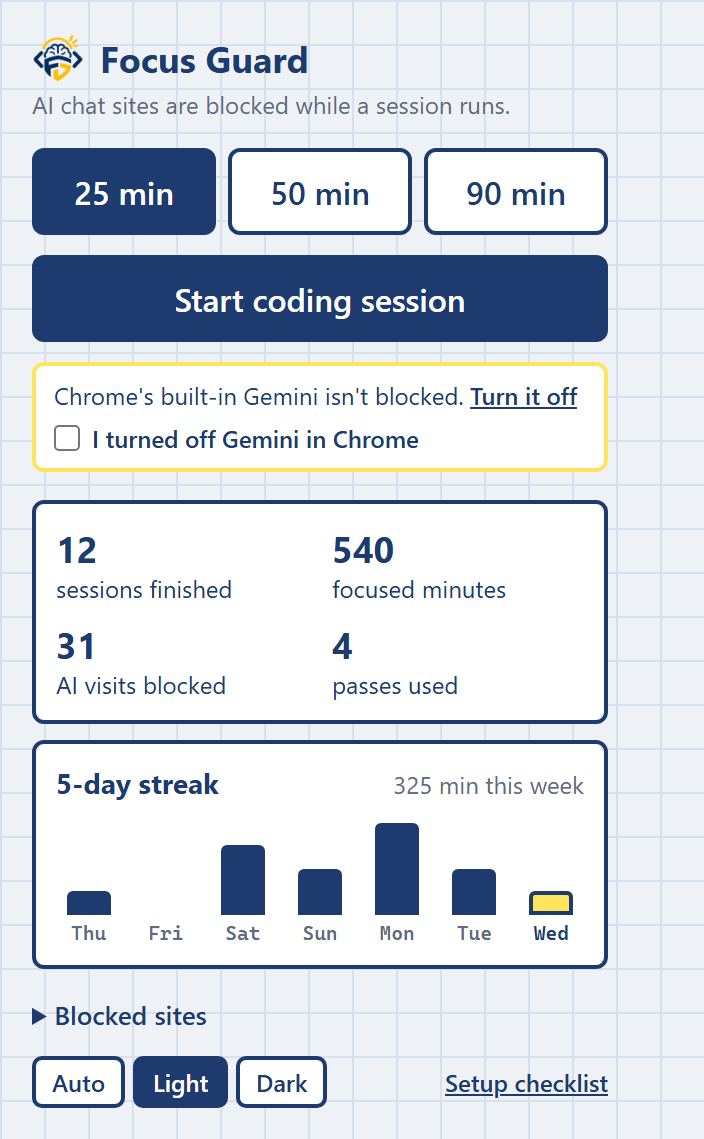
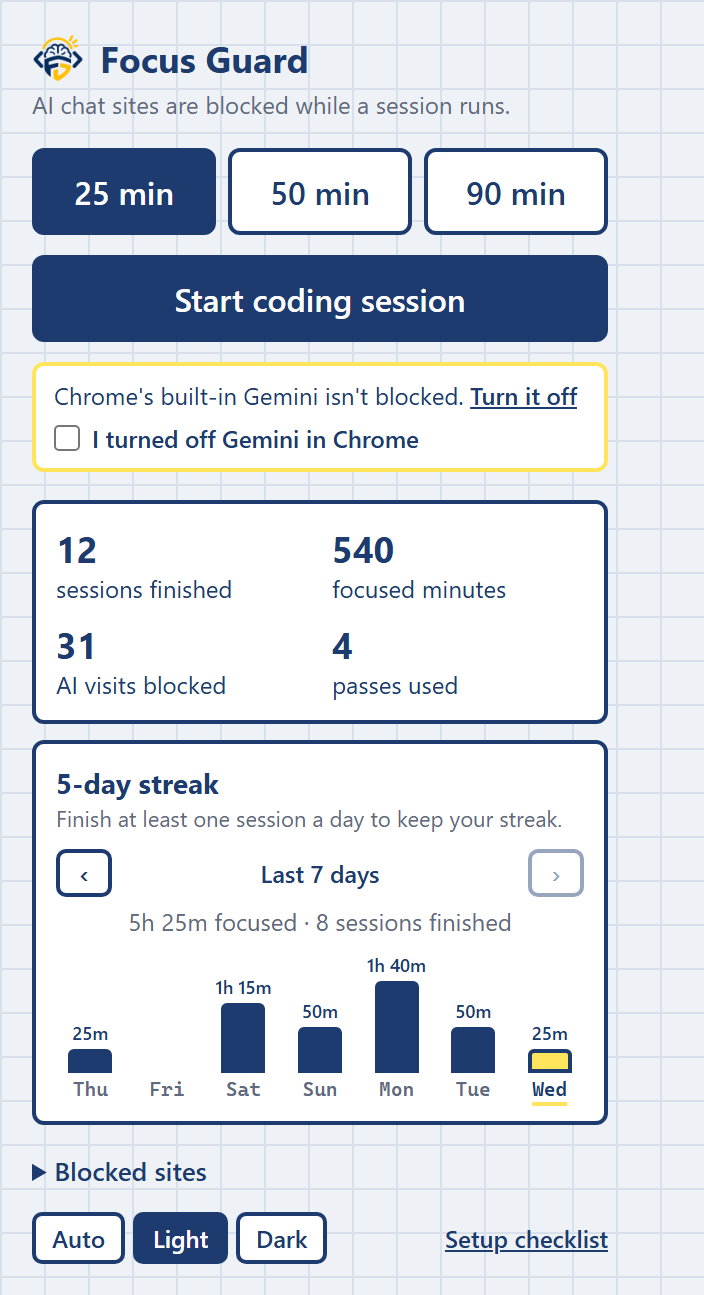
Show each day's time, the week's totals and earlier weeks in the chart
The popup's weekly chart now shows each day's focused time above its bar
("45m", "1h 20m", nothing on empty days), underlines today's day name,
and has a summary line with the week's total time and finished sessions.
Arrows step back through earlier weeks from the saved 60 days: "next" is
disabled on the current week and "previous" when nothing older has any
focus, and the week shown stays put when the popup refreshes. A line
under the streak explains the rule: finish at least one session a day.
It's visible text rather than a hover tooltip, so it also works with a
keyboard, touch and screen readers.

src/shared/streaks.js gains weekOf, hasEarlierWeek, durationText and
weekRangeText; the chart's aria-label names the week shown. The new text
is covered by the extension contrast tests, and the 1.1.0 notes, the
releases page, README and site alt text and the popup screenshot match.

Changed region(s): [[0.0312, 0.0307, 0.875, 0.9833], [0.625, 0.9219, 0.875, 0.9833]]

diff --git a/tests/popup.test.js b/tests/popup.test.js
@@ -39,32 +39,87 @@ test("the app builders choice shows as saved, and is locked during a session lik
 
 const NOW = new Date(2026, 10, 25, 15).getTime(); // Wednesday 25 November 2026, 3 pm local time
 
-test("the popup shows the streak, this week's minutes and one bar per day", async () => {
-  const days = {
-    "2026-11-19": { sessions: 1, minutes: 25 },
-    "2026-11-23": { sessions: 1, minutes: 50 },
-    "2026-11-24": { sessions: 2, minutes: 100 },
-    "2026-11-25": { sessions: 1, minutes: 25 }
-  };
-  const popup = loadPopup({ store: { stats: { sessions: 5, minutes: 200, blocked: 0, unlocks: 0, log: [], days } }, now: NOW });
+const bars = (popup) => popup.els.weekBars.children.map((col) => ({
+  value: col.children[0].textContent, height: col.children[1].style.height, day: col.children[2].textContent, today: col.className === "bar today"
+}));
+const HISTORY = {
+  "2026-11-05": { sessions: 1, minutes: 25 },
+  "2026-11-12": { sessions: 2, minutes: 95 },
+  "2026-11-19": { sessions: 1, minutes: 25 },
+  "2026-11-23": { sessions: 1, minutes: 50 },
+  "2026-11-24": { sessions: 2, minutes: 100 },
+  "2026-11-25": { sessions: 1, minutes: 25 }
+};
+const withHistory = (days = HISTORY) => loadPopup({ store: { stats: { sessions: 8, minutes: 320, blocked: 0, unlocks: 0, log: [], days } }, now: NOW });
+
+test("the popup shows the streak, its rule, and the last 7 days with minutes on each bar", async () => {
+  const popup = withHistory();
   await popup.settle();
   assert.equal(popup.els.streak.textContent, "3-day streak");
-  assert.equal(popup.els.weekTotal.textContent, "200 min this week");
-  const bars = popup.els.weekBars.children;
-  assert.deepEqual(bars.map((b) => b.children[1].textContent), ["Thu", "Fri", "Sat", "Sun", "Mon", "Tue", "Wed"]);
-  assert.deepEqual(bars.map((b) => b.children[0].style.height), ["12px", "0px", "0px", "0px", "23px", "46px", "12px"]);
-  assert.deepEqual(bars.map((b) => b.className), ["bar", "bar", "bar", "bar", "bar", "bar", "bar today"]);
+  assert.match(html, /<p class="streak-rule muted">Finish at least one session a day to keep your streak\.<\/p>/);
+  assert.equal(popup.els.weekRange.textContent, "Last 7 days");
+  assert.equal(popup.els.weekTotal.textContent, "3h 20m focused · 5 sessions finished");
+  assert.deepEqual(bars(popup), [
+    { value: "25m", height: "12px", day: "Thu", today: false },
+    { value: "", height: "0px", day: "Fri", today: false },
+    { value: "", height: "0px", day: "Sat", today: false },
+    { value: "", height: "0px", day: "Sun", today: false },
+    { value: "50m", height: "23px", day: "Mon", today: false },
+    { value: "1h 40m", height: "46px", day: "Tue", today: false },
+    { value: "25m", height: "12px", day: "Wed", today: true }
+  ]);
   assert.equal(popup.els.weekBars.attributes["aria-label"],
     "Focused minutes, last 7 days: Thu 25, Fri 0, Sat 0, Sun 0, Mon 50, Tue 100, Wed (today) 25");
+});
+
+test("the arrows browse earlier weeks, and stop at the current week and the oldest history", async () => {
+  const popup = withHistory();
+  await popup.settle();
+  assert.equal(popup.els.nextWeek.disabled, true, "no next week from the current one");
+  assert.equal(popup.els.prevWeek.disabled, false);
+  popup.els.prevWeek.onclick();
+  assert.equal(popup.els.weekRange.textContent, "12–18 Nov");
+  assert.equal(popup.els.weekTotal.textContent, "1h 35m focused · 2 sessions finished");
+  assert.deepEqual(bars(popup).map((b) => b.value), ["1h 35m", "", "", "", "", "", ""]);
+  assert.ok(bars(popup).every((b) => !b.today), "no today in an earlier week");
+  assert.equal(popup.els.weekBars.attributes["aria-label"], "Focused minutes, 12–18 Nov: Thu 95, Fri 0, Sat 0, Sun 0, Mon 0, Tue 0, Wed 0");
+  assert.equal(popup.els.nextWeek.disabled, false);
+  popup.els.prevWeek.onclick();
+  assert.equal(popup.els.weekRange.textContent, "5–11 Nov");
+  assert.equal(popup.els.prevWeek.disabled, true, "nothing older is saved");
+  popup.els.nextWeek.onclick();
+  popup.els.nextWeek.onclick();
+  assert.equal(popup.els.weekRange.textContent, "Last 7 days");
+  assert.equal(popup.els.nextWeek.disabled, true);
+});
+
+test("the week shown stays put when the popup refreshes", async () => {
+  const popup = withHistory();
+  await popup.settle();
+  popup.els.prevWeek.onclick();
+  assert.equal(popup.els.weekRange.textContent, "12–18 Nov");
+  await popup.save({ stats: { sessions: 9, minutes: 345, blocked: 0, unlocks: 0, log: [], days: HISTORY } }); // e.g. a session finished
+  await popup.settle();
+  assert.equal(popup.els.sSessions.textContent, 9, "the popup did refresh");
+  assert.equal(popup.els.weekRange.textContent, "12–18 Nov", "still the week you were looking at");
 });
 
 test("with no history yet, the popup invites you to start a streak", async () => {
   const popup = loadPopup({ store: { stats: { sessions: 4, minutes: 130, blocked: 7, unlocks: 2, log: [] } }, now: NOW }); // saved by 1.0.0
   await popup.settle();
   assert.equal(popup.els.streak.textContent, "Finish a session to start a streak");
-  assert.equal(popup.els.weekTotal.textContent, "0 min this week");
+  assert.equal(popup.els.weekTotal.textContent, "0m focused · 0 sessions finished");
+  assert.equal(popup.els.prevWeek.disabled, true);
+  assert.equal(popup.els.nextWeek.disabled, true);
   assert.equal(popup.els.weekBars.children.length, 7);
+  assert.ok(bars(popup).every((b) => b.value === ""), "nothing on empty days");
   assert.equal(popup.els.sMinutes.textContent, 130, "the totals are still shown");
+});
+
+test("one finished session is singular", async () => {
+  const popup = withHistory({ "2026-11-25": { sessions: 1, minutes: 25 } });
+  await popup.settle();
+  assert.equal(popup.els.weekTotal.textContent, "25m focused · 1 session finished");
 });
 
 test("a short bar is still visible, and the chart's markup is in popup.html", () => {

diff --git a/tests/streaks.test.js b/tests/streaks.test.js
@@ -96,12 +96,45 @@ test("a streak can cross a month and a year", () => {
 test("the week is the last 7 days, oldest first, ending today", () => {
   const days = { "2026-11-19": { sessions: 1, minutes: 25 }, "2026-11-20": { sessions: 0, minutes: 10 }, "2026-11-25": { sessions: 2, minutes: 115 } };
   assert.deepEqual(lastWeek(days, at("2026-11-25")), [
-    { key: "2026-11-19", day: "Thu", minutes: 25, today: false },
-    { key: "2026-11-20", day: "Fri", minutes: 10, today: false },
-    { key: "2026-11-21", day: "Sat", minutes: 0, today: false },
-    { key: "2026-11-22", day: "Sun", minutes: 0, today: false },
-    { key: "2026-11-23", day: "Mon", minutes: 0, today: false },
-    { key: "2026-11-24", day: "Tue", minutes: 0, today: false },
-    { key: "2026-11-25", day: "Wed", minutes: 115, today: true }
+    { key: "2026-11-19", day: "Thu", minutes: 25, sessions: 1, today: false },
+    { key: "2026-11-20", day: "Fri", minutes: 10, sessions: 0, today: false },
+    { key: "2026-11-21", day: "Sat", minutes: 0, sessions: 0, today: false },
+    { key: "2026-11-22", day: "Sun", minutes: 0, sessions: 0, today: false },
+    { key: "2026-11-23", day: "Mon", minutes: 0, sessions: 0, today: false },
+    { key: "2026-11-24", day: "Tue", minutes: 0, sessions: 0, today: false },
+    { key: "2026-11-25", day: "Wed", minutes: 115, sessions: 2, today: true }
   ]);
+});
+
+// Browsing earlier weeks
+
+const weekOf = plain(get("weekOf")), hasEarlierWeek = get("hasEarlierWeek"), durationText = get("durationText"), weekRangeText = get("weekRangeText");
+
+test("an earlier week is the 7 days before, with no day marked today", () => {
+  const days = { "2026-11-12": { sessions: 1, minutes: 50 }, "2026-11-18": { sessions: 2, minutes: 75 } };
+  const week = weekOf(days, at("2026-11-25"), 1);
+  assert.deepEqual(week.map((d) => d.key), ["2026-11-12", "2026-11-13", "2026-11-14", "2026-11-15", "2026-11-16", "2026-11-17", "2026-11-18"]);
+  assert.deepEqual(week.map((d) => d.minutes), [50, 0, 0, 0, 0, 0, 75]);
+  assert.ok(week.every((d) => !d.today));
+  assert.equal(weekOf(days, at("2026-11-25"), 2)[6].key, "2026-11-11");
+});
+
+test("there's an earlier week only while the history has focus before the week shown", () => {
+  const days = { "2026-11-12": { sessions: 1, minutes: 50 }, "2026-11-01": { sessions: 0, minutes: 0 } };
+  const now = at("2026-11-25");
+  assert.equal(hasEarlierWeek(days, now, 0), true, "19-25 Nov shown, 12 Nov is earlier");
+  assert.equal(hasEarlierWeek(days, now, 1), false, "12-18 Nov shown; an empty day before it doesn't count");
+  assert.equal(hasEarlierWeek({}, now, 0), false);
+  assert.equal(hasEarlierWeek(undefined, now, 0), false);
+});
+
+test("durations are short: minutes, hours, or both", () => {
+  assert.deepEqual([1, 45, 59, 60, 80, 125, 600].map(durationText), ["1m", "45m", "59m", "1h", "1h 20m", "2h 5m", "10h"]);
+});
+
+test("week ranges name the days and months, and the years when they differ", () => {
+  assert.equal(weekRangeText(weekOf({}, at("2026-11-25"), 0)), "19–25 Nov");
+  assert.equal(weekRangeText(weekOf({}, at("2026-11-25"), 4)), "22–28 Oct");
+  assert.equal(weekRangeText(weekOf({}, at("2026-11-03"), 0)), "28 Oct – 3 Nov");
+  assert.equal(weekRangeText(weekOf({}, at("2027-01-02"), 0)), "27 Dec 2026 – 2 Jan 2027");
 });

diff --git a/src/popup/popup.html b/src/popup/popup.html
@@ -14,14 +14,20 @@
            background: var(--card); border: 2px solid var(--ink); border-radius: 6px; padding: 10px; margin: 14px 0; }
   .stats b { display: block; font-size: 18px; }
   .week { margin: -6px 0 14px; padding: 10px; background: var(--card); border: 2px solid var(--ink); border-radius: 6px; font-size: 12px; }
-  .week-head { display: flex; justify-content: space-between; align-items: baseline; margin-bottom: 8px; }
   .week-head b { font-size: 14px; }
-  .bars { display: grid; grid-template-columns: repeat(7, 1fr); gap: 6px; align-items: end; height: 64px; }
-  .bar { display: flex; flex-direction: column; justify-content: flex-end; align-items: center; height: 100%; gap: 3px; }
+  .streak-rule { margin: 1px 0 8px; font-size: 11px; }
+  .week-nav { display: flex; align-items: center; justify-content: space-between; gap: 6px; }
+  .week-nav button { padding: 0 8px; min-width: 28px; height: 24px; font-size: 14px; line-height: 1; border-radius: 5px; }
+  .week-nav button { background: var(--card); color: var(--ink); }
+  #weekRange { font-weight: 600; }
+  .week-summary { margin: 4px 0 6px; text-align: center; }
+  .bars { display: grid; grid-template-columns: repeat(7, 1fr); gap: 4px; align-items: end; height: 76px; }
+  .bar { display: flex; flex-direction: column; justify-content: flex-end; align-items: center; height: 100%; gap: 2px; min-width: 0; }
+  .bar b { font-size: 9px; font-weight: 600; white-space: nowrap; color: var(--ink); }
   .bar i { display: block; width: 100%; max-width: 22px; background: var(--ink); border-radius: 3px 3px 0 0; }
   .bar.today i { background: var(--marker); outline: 2px solid var(--ink); outline-offset: -2px; }
   .bar span { font: 600 10px var(--code); color: var(--pencil); }
-  .bar.today span { color: var(--ink); }
+  .bar.today span { color: var(--ink); text-decoration: underline 2px var(--marker); text-underline-offset: 3px; }
   details summary { cursor: pointer; font-size: 13px; font-weight: 600; }
   details textarea { height: 140px; margin: 8px 0 2px; }
   .help { font-size: 11px; line-height: 1.4; margin: 0 0 8px; }
@@ -77,7 +83,14 @@
 
   <!-- The streak and focused minutes for the last 7 days, filled in by popup.js -->
   <div class="week">
-    <div class="week-head"><b id="streak"></b><span class="muted" id="weekTotal"></span></div>
+    <div class="week-head"><b id="streak"></b></div>
+    <p class="streak-rule muted">Finish at least one session a day to keep your streak.</p>
+    <div class="week-nav">
+      <button id="prevWeek" aria-label="Previous week">&lsaquo;</button>
+      <span id="weekRange" aria-live="polite"></span>
+      <button id="nextWeek" aria-label="Next week">&rsaquo;</button>
+    </div>
+    <p class="week-summary muted" id="weekTotal"></p>
     <div class="bars" id="weekBars" role="img"></div>
   </div>
 

diff --git a/src/popup/popup.js b/src/popup/popup.js
@@ -141,27 +141,42 @@ async function render() {
   }
 }
 
-// The streak and a bar per day for the last 7 days (from shared/streaks.js)
+// The streak, and a bar per day for a week: the last 7 days, or an earlier week from the
+// saved history (helpers from shared/streaks.js). The arrows move a week at a time.
+let shownDays = {}, weeksBack = 0;
+$("prevWeek").onclick = () => { weeksBack += 1; showWeek(shownDays); };
+$("nextWeek").onclick = () => { weeksBack = Math.max(0, weeksBack - 1); showWeek(shownDays); };
+
 function showWeek(days) {
+  shownDays = days;
   const now = Date.now();
   const streak = currentStreak(days, now);
   $("streak").textContent = streak ? `${streak}-day streak` : "Finish a session to start a streak";
-  const week = lastWeek(days, now);
-  const total = week.reduce((sum, d) => sum + d.minutes, 0);
-  $("weekTotal").textContent = `${total} min this week`;
+
+  const week = weekOf(days, now, weeksBack);
+  const range = weeksBack ? weekRangeText(week) : "Last 7 days";
+  $("weekRange").textContent = range;
+  $("prevWeek").disabled = !hasEarlierWeek(days, now, weeksBack);
+  $("nextWeek").disabled = weeksBack === 0;
+  const minutes = week.reduce((sum, d) => sum + d.minutes, 0);
+  const sessions = week.reduce((sum, d) => sum + d.sessions, 0);
+  $("weekTotal").textContent = `${durationText(minutes)} focused · ${sessions} session${sessions === 1 ? "" : "s"} finished`;
+
   const most = Math.max(...week.map((d) => d.minutes), 1);
   $("weekBars").replaceChildren(...week.map((d) => {
     const col = document.createElement("div");
     col.className = d.today ? "bar today" : "bar";
+    const value = document.createElement("b");
+    value.textContent = d.minutes ? durationText(d.minutes) : ""; // nothing on empty days
     const bar = document.createElement("i");
     bar.style.height = `${d.minutes ? Math.max(3, Math.round((d.minutes / most) * 46)) : 0}px`; // the busiest day is full height
     const label = document.createElement("span");
     label.textContent = d.day;
-    col.append(bar, label);
+    col.append(value, bar, label);
     return col;
   }));
   // The chart is a picture, so screen readers get the numbers instead
-  $("weekBars").setAttribute("aria-label", "Focused minutes, last 7 days: " +
+  $("weekBars").setAttribute("aria-label", `Focused minutes, ${weeksBack ? range : "last 7 days"}: ` +
     week.map((d) => `${d.day}${d.today ? " (today)" : ""} ${d.minutes}`).join(", "));
 }
 

diff --git a/site/releases.html b/site/releases.html
@@ -50,7 +50,7 @@
 <li>Dark mode for the popup, the setup checklist and the block page, in the same colours as the website's dark theme. It follows your system setting, or pick Auto, Light or Dark at the bottom of the popup. Every Focus Guard page switches straight away, with no flash of the wrong theme when one opens. In dark mode the logo is drawn with light lines.</li>
 <li>After a pass is granted, the block page waits for you to open the site and offers <b>Copy as AI prompt</b>. It copies your three answers with a request for a hint or an explanation of the cause rather than the full solution.</li>
 <li>An optional <b>Also block AI app builders</b> choice under <b>Blocked sites</b> in the popup, for v0.app, bolt.new and lovable.dev. It's off unless you turn it on, it's locked during a session like the list, and turning it off never removes sites you added yourself.</li>
-<li>A daily streak and a weekly chart in the popup. A day counts toward your streak when you finish at least one session, and a streak lasts until the end of the next day. The chart shows your focused minutes for each of the last 7 days. Focus Guard keeps daily totals for the last 60 days; history starts with your first session after updating, and your existing totals are kept.</li>
+<li>A daily streak and a weekly chart in the popup. A day counts toward your streak when you finish at least one session, which the popup explains under the streak, and a streak lasts until the end of the next day. The chart shows the last 7 days with each day's focused time on its bar (like 45m or 1h 20m), today marked, and the week's total time and finished sessions. Arrows step back through earlier weeks. Focus Guard keeps daily totals for the last 60 days; history starts with your first session after updating, and your existing totals are kept.</li>
 <li>Blocking just part of a site: an entry like <code>github.com/copilot</code> blocks that page and the pages under it, and <code>google.com/search?udm=50</code> blocks Google's AI Mode but not normal searches. New defaults cover GitHub Copilot (<code>github.com/copilot</code>), Grok on X (<code>x.com/i/grok</code>), Copilot on Bing (<code>bing.com/chat</code>), HuggingChat (<code>huggingface.co/chat</code>) and Google AI Mode (<code>google.com/search?udm=50</code>). They're added on update like other new defaults, unless your list already blocks the whole site or you deleted them.</li>
 </ul>
 <h3>Changed</h3>

diff --git a/src/shared/streaks.js b/src/shared/streaks.js
@@ -44,13 +44,41 @@ function currentStreak(days, now) {
 }
 
 const WEEKDAYS = ["Sun", "Mon", "Tue", "Wed", "Thu", "Fri", "Sat"];
+const MONTHS = ["Jan", "Feb", "Mar", "Apr", "May", "Jun", "Jul", "Aug", "Sep", "Oct", "Nov", "Dec"];
+const dateOf = (key) => { const [y, m, d] = key.split("-").map(Number); return new Date(y, m - 1, d, 12); };
 
-// The last 7 days, oldest first, ending today: [{ key, day: "Mon", minutes, today }]
-function lastWeek(days, now) {
+// 7 days, oldest first: the last 7 days ending today, or `weeksBack` weeks before that.
+// [{ key, day: "Mon", minutes, sessions, today }]
+function weekOf(days, now, weeksBack = 0) {
   const today = dayKey(now);
+  const end = addDays(today, -7 * weeksBack);
   return Array.from({ length: 7 }, (_, i) => {
-    const key = addDays(today, i - 6);
-    const [y, m, d] = key.split("-").map(Number);
-    return { key, day: WEEKDAYS[new Date(y, m - 1, d, 12).getDay()], minutes: days?.[key]?.minutes || 0, today: key === today };
+    const key = addDays(end, i - 6);
+    const { minutes = 0, sessions = 0 } = days?.[key] || {};
+    return { key, day: WEEKDAYS[dateOf(key).getDay()], minutes, sessions, today: key === today };
   });
+}
+
+// The last 7 days, ending today
+const lastWeek = (days, now) => weekOf(days, now, 0);
+
+// Whether the history has any focus before that week, so there's an earlier week to show
+function hasEarlierWeek(days, now, weeksBack) {
+  const start = addDays(dayKey(now), -7 * weeksBack - 6);
+  return Object.entries(days || {}).some(([key, d]) => key < start && (d.minutes > 0 || d.sessions > 0));
+}
+
+// "45m", "1h", "1h 20m"
+function durationText(minutes) {
+  const h = Math.floor(minutes / 60), m = minutes % 60;
+  return h ? (m ? `${h}h ${m}m` : `${h}h`) : `${m}m`;
+}
+
+// "12-18 Nov", "28 Oct - 3 Nov", "29 Dec 2026 - 4 Jan 2027" (with en dashes)
+function weekRangeText(week) {
+  const a = dateOf(week[0].key), b = dateOf(week[6].key);
+  const dm = (d) => `${d.getDate()} ${MONTHS[d.getMonth()]}`;
+  if (a.getFullYear() !== b.getFullYear()) return `${dm(a)} ${a.getFullYear()} – ${dm(b)} ${b.getFullYear()}`;
+  if (a.getMonth() !== b.getMonth()) return `${dm(a)} – ${dm(b)}`;
+  return `${a.getDate()}–${dm(b)}`;
 }

diff --git a/site/index.html b/site/index.html
@@ -74,8 +74,8 @@
           <figcaption>The block page: questions to try first, then a 5-minute pass if you're still stuck.</figcaption>
         </figure>
         <figure>
-          <img src="images/popup.png" width="704" height="1139" loading="lazy"
-               alt="The Focus Guard popup with 25, 50 and 90 minute buttons, a Start coding session button, stats for sessions finished, focused minutes, AI visits blocked and passes used, a 5-day streak with a bar chart of focused minutes for the last 7 days, and Auto, Light and Dark theme buttons.">
+          <img src="images/popup.png" width="704" height="1295" loading="lazy"
+               alt="The Focus Guard popup with 25, 50 and 90 minute buttons, a Start coding session button, stats for sessions finished, focused minutes, AI visits blocked and passes used, a 5-day streak with its rule, a bar chart of the last 7 days with each day's focused time and the week's total, arrows for earlier weeks, and Auto, Light and Dark theme buttons.">
           <figcaption>The popup: pick a session length, and see your stats, streak and week.</figcaption>
         </figure>
         <figure>

diff --git a/tests/contrast.js b/tests/contrast.js
@@ -61,7 +61,8 @@ const EXTENSION_PAIRS = [
   ["button and sheet borders against paper", "ink", "paper", 3],
   ["unpicked duration button border on its fill", "ink", "card", 3],
   ["weekly chart bars and today's bar outline on the sheet", "ink", "card", 3],
-  ["weekly chart day labels on the sheet", "pencil", "card", 4.5]
+  ["weekly chart day labels and the streak rule on the sheet", "pencil", "card", 4.5],
+  ["minutes above the chart bars, the week and the arrows on the sheet", "ink", "card", 4.5]
 ];
 
 module.exports = { palette, ratio, PAIRS, CSS, EXTENSION_PAIRS, EXTENSION_CSS };

diff --git a/tests/fake-popup.js b/tests/fake-popup.js
@@ -74,6 +74,7 @@ function loadPopup({ store = {}, constants, now } = {}) {
   }
   return {
     els, store, sent, durations,
+    save: (items) => chrome.storage.local.set(items), // like another page saving, which refreshes the popup
     settle: () => new Promise((resolve) => setImmediate(() => setImmediate(resolve))) // let render() finish
   };
 }

diff --git a/CHANGELOG.md b/CHANGELOG.md
@@ -15,7 +15,7 @@ Focus Guard's own logo, dark mode, three questions before unlocking with a copy-
 - Dark mode for the popup, the setup checklist and the block page, in the same colours as the website's dark theme. It follows your system setting, or pick Auto, Light or Dark at the bottom of the popup. Every Focus Guard page switches straight away, with no flash of the wrong theme when one opens. In dark mode the logo is drawn with light lines.
 - After a pass is granted, the block page waits for you to open the site and offers **Copy as AI prompt**. It copies your three answers with a request for a hint or an explanation of the cause rather than the full solution.
 - An optional **Also block AI app builders** choice under **Blocked sites** in the popup, for v0.app, bolt.new and lovable.dev. It's off unless you turn it on, it's locked during a session like the list, and turning it off never removes sites you added yourself.
-- A daily streak and a weekly chart in the popup. A day counts toward your streak when you finish at least one session, and a streak lasts until the end of the next day. The chart shows your focused minutes for each of the last 7 days. Focus Guard keeps daily totals for the last 60 days; history starts with your first session after updating, and your existing totals are kept.
+- A daily streak and a weekly chart in the popup. A day counts toward your streak when you finish at least one session, which the popup explains under the streak, and a streak lasts until the end of the next day. The chart shows the last 7 days with each day's focused time on its bar (like 45m or 1h 20m), today marked, and the week's total time and finished sessions. Arrows step back through earlier weeks. Focus Guard keeps daily totals for the last 60 days; history starts with your first session after updating, and your existing totals are kept.
 - Blocking just part of a site: an entry like `github.com/copilot` blocks that page and the pages under it, and `google.com/search?udm=50` blocks Google's AI Mode but not normal searches. New defaults cover GitHub Copilot (`github.com/copilot`), Grok on X (`x.com/i/grok`), Copilot on Bing (`bing.com/chat`), HuggingChat (`huggingface.co/chat`) and Google AI Mode (`google.com/search?udm=50`). They're added on update like other new defaults, unless your list already blocks the whole site or you deleted them.
 
 ### Changed

diff --git a/TESTING.md b/TESTING.md
@@ -210,8 +210,9 @@ Use a separate install in Edge. Turn on **Developer mode** at `edge://extensions
 - [ ] 14.8 Unlock `github.com/copilot`. GitHub Copilot opens, and `chatgpt.com` is still blocked.
 - [ ] 14.9 Outside a session, add `https://claude.ai/new` and `chatgpt.com/c/123` to **Blocked sites** and save. The popup says `chatgpt.com/c/123` was left out because `chatgpt.com` already blocks it, and that `claude.ai/new` blocks only part of a site.
 - [ ] 14.10 Tick **Also block AI app builders**. During a session, `v0.app`, `bolt.new` and `lovable.dev` show the block page; the checkbox is disabled until the session ends. Untick it afterwards: they open again, and your own list is unchanged.
-- [ ] 14.11 Finish a session (use the "Finish the session in 2 seconds" shortcut). The popup shows "1-day streak", today's bar in yellow, and the minutes in "min this week".
+- [ ] 14.11 Finish a session (use the "Finish the session in 2 seconds" shortcut). The popup shows "1-day streak" with the streak rule under it, today's bar in yellow with its time above it (like "25m") and today's day underlined, and the week's total time and "1 session finished".
 - [ ] 14.12 With a screen reader, or by inspecting the popup, the chart's label lists the minutes for each of the last 7 days.
+- [ ] 14.13 The right arrow is disabled on "Last 7 days". With a session finished more than 7 days ago (edit `stats.days` in the service worker console to add one), the left arrow shows that week's dates and totals, and is disabled on the oldest week with any focus.
 
 ## 15. Updating from 1.0.0
 

diff --git a/README.md b/README.md
@@ -47,7 +47,7 @@ Most of the time, writing the problem down or waiting that minute is enough to g
 
 ## Screenshots
 
-![The Focus Guard popup with the 25, 50 and 90 minute buttons, stats, a 5-day streak with a weekly chart, and the theme buttons](docs/screenshots/popup.png)
+![The Focus Guard popup with the 25, 50 and 90 minute buttons, stats, a 5-day streak and a weekly chart with each day's focused time, and the theme buttons](docs/screenshots/popup.png)
 
 *The popup: pick a session length, start a session and see your stats.*
 
